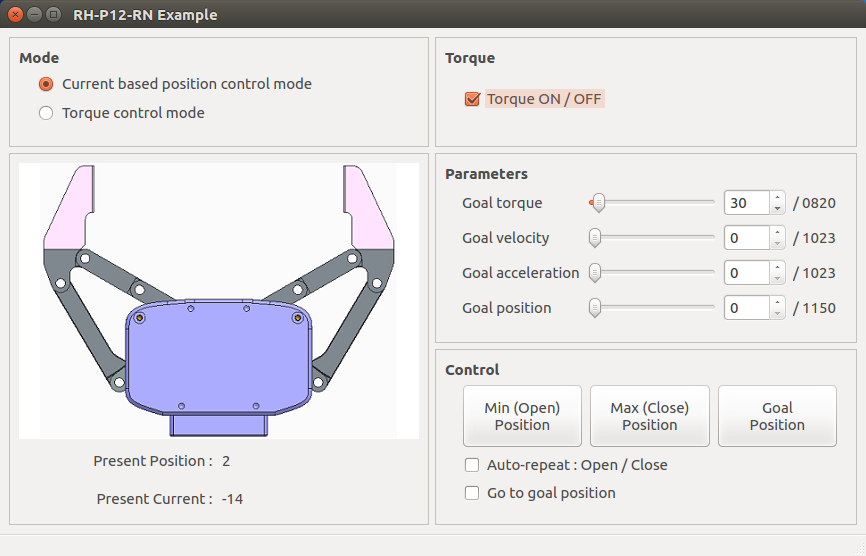
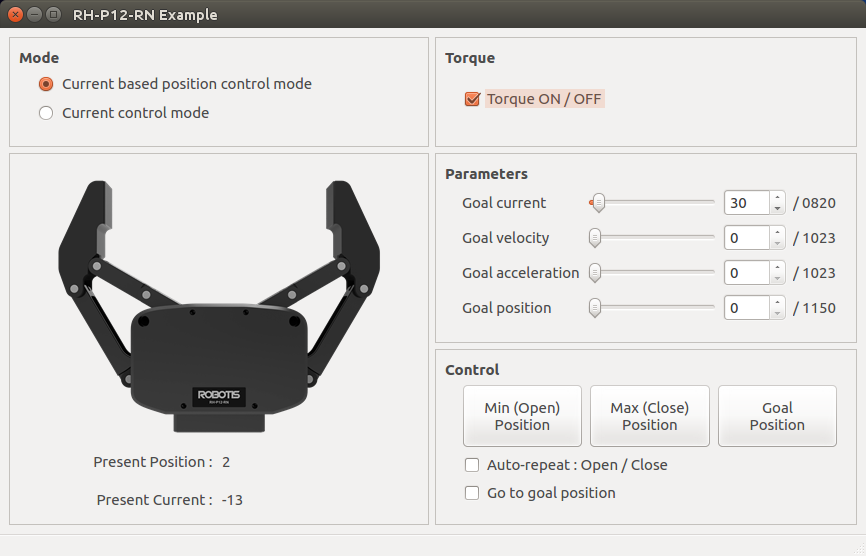
- changed (torque contorl -> current control, goal torque -> goal current)

diff --git a/docs/en/platform/rh_p12_rn/examples.md b/docs/en/platform/rh_p12_rn/examples.md
@@ -54,17 +54,17 @@ Install Visual Studio and open the solution with `RH-P12-RN_Example\win64\RH-P12
 Upon successful execution of the Windows example, the communication port and the baudrate of connected device are listed as shown in the below image.  
 If execution fails, confirm the error message to configure the device or communication port properly.
 
-![img](/assets/images/platform/rh_p12_rn/windows_example_run.png)
+![img](/assets/images/platform/rh_p12_rn/windows_example_execute.png)
 
 If RH-P12-RN is configured as **Current-based Position Control Mode**, below image will be displayed.  
 
 ![img](/assets/images/platform/rh_p12_rn/windows_example_position_mode.png)
 
-If RH-P12-RN is configured as **Torque Control Mode**, below image will be displayed.  
+If RH-P12-RN is configured as **Current Control Mode**, below image will be displayed.  
 
-![img](/assets/images/platform/rh_p12_rn/windows_example_torque_mode.png)
+![img](/assets/images/platform/rh_p12_rn/windows_example_current_mode.png)
 
-* The Up/Down `Direction` keys can be used to move the cursor in the menu.  
+* The Up/Down `Cursor` keys can be used to move the cursor in the menu.  
 * `Space` key will check/uncheck options in the MODE / TORQUE / CONTROL menu.  
 * Shortcut keys in the parenthesis can check/uncheck options.
 * In order to change PARAMETERS value, `[` and `]` keys increase/decrease by 1 whereas `{` and `}` keys increase/decrease by 10.  
@@ -72,7 +72,7 @@ If RH-P12-RN is configured as **Torque Control Mode**, below image will be displ
 Each option is described as belows.
 
 `++ MODE ++`
-* (C) torque control mode : Torque Control Mode is used when checked
+* (C) current control mode : Current Control Mode is used when checked
 * (P) current based position control mode : Current-based Position Control Mode is used when checked
 
 `++ TORQUE ++`
@@ -85,10 +85,10 @@ Each option is described as belows.
 * (G) go to goal position : goal position in the PARAMETERS will be applied immediately when checked.
 
 `++ PARAMETERS ++`
-* goal torque : Current value will be written in the goal torque address of the RH-P12-RN.
-* goal velocity : Current value will be written in the goal velocity address of the RH-P12-RN.
-* goal acceleration : Current value will be written in the goal acceleration address of the RH-P12-RN.
-* goal position : Current value will be written in the goal position address of the RH-P12-RN when **(G) go to goal position** is checked.
+* goal current : Setting value will be written in the goal current address of the RH-P12-RN.
+* goal velocity : Setting value will be written in the goal velocity address of the RH-P12-RN.
+* goal acceleration : Setting value will be written in the goal acceleration address of the RH-P12-RN.
+* goal position : Setting value will be written in the goal position address of the RH-P12-RN when **(G) go to goal position** is checked.
 
 
 ## [Linux Example](#linux-example)
@@ -112,15 +112,15 @@ $ ./rh-p12-rn_example
 Upon successful execution of the Linux example, the communication port and the baudrate of connected device are listed as shown in the below image.  
 If execution fails, confirm the error message to configure the device or communication port properly.  
 
-![img](/assets/images/platform/rh_p12_rn/linux_example_run.png)
+![img](/assets/images/platform/rh_p12_rn/linux_example_execute.png)
 
 If RH-P12-RN is configured as **Current-based Position Control Mode**, below image will be displayed.  
 
 ![img](/assets/images/platform/rh_p12_rn/linux_example_position_mode.png)
 
-If RH-P12-RN is configured as **Torque Control Mode**, below image will be displayed.  
+If RH-P12-RN is configured as **Current Control Mode**, below image will be displayed.  
 
-![img](/assets/images/platform/rh_p12_rn/linux_example_torque_mode.png)
+![img](/assets/images/platform/rh_p12_rn/linux_example_current_mode.png)
 
 Each option is identical to the [Windows Example]
 
@@ -154,9 +154,9 @@ If RH-P12-RN is configured as **Current-based Position Control Mode**, below GUI
 
 ![img](/assets/images/platform/rh_p12_rn/ros_example_position_mode.png)
 
-If RH-P12-RN is configured as **Torque Control Mode**, below GUI window will be displayed.  
+If RH-P12-RN is configured as **Current Control Mode**, below GUI window will be displayed.  
 
-![img](/assets/images/platform/rh_p12_rn/ros_example_torque_mode.png)
+![img](/assets/images/platform/rh_p12_rn/ros_example_current_mode.png)
 
 Each option is identical to the [Windows Example]
 
